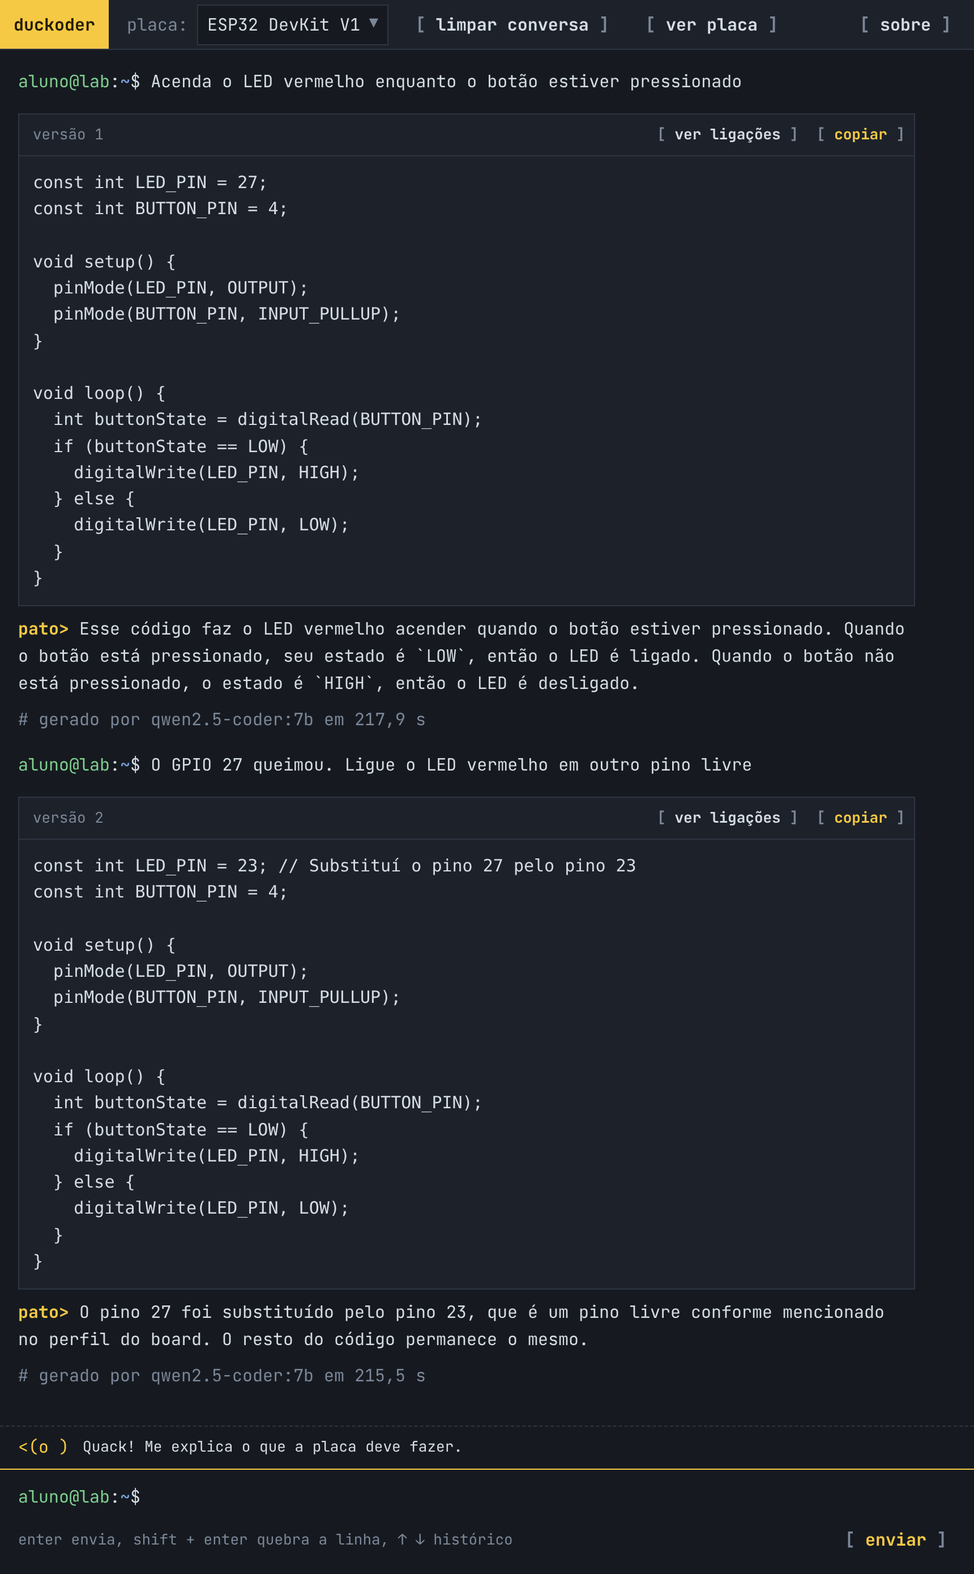
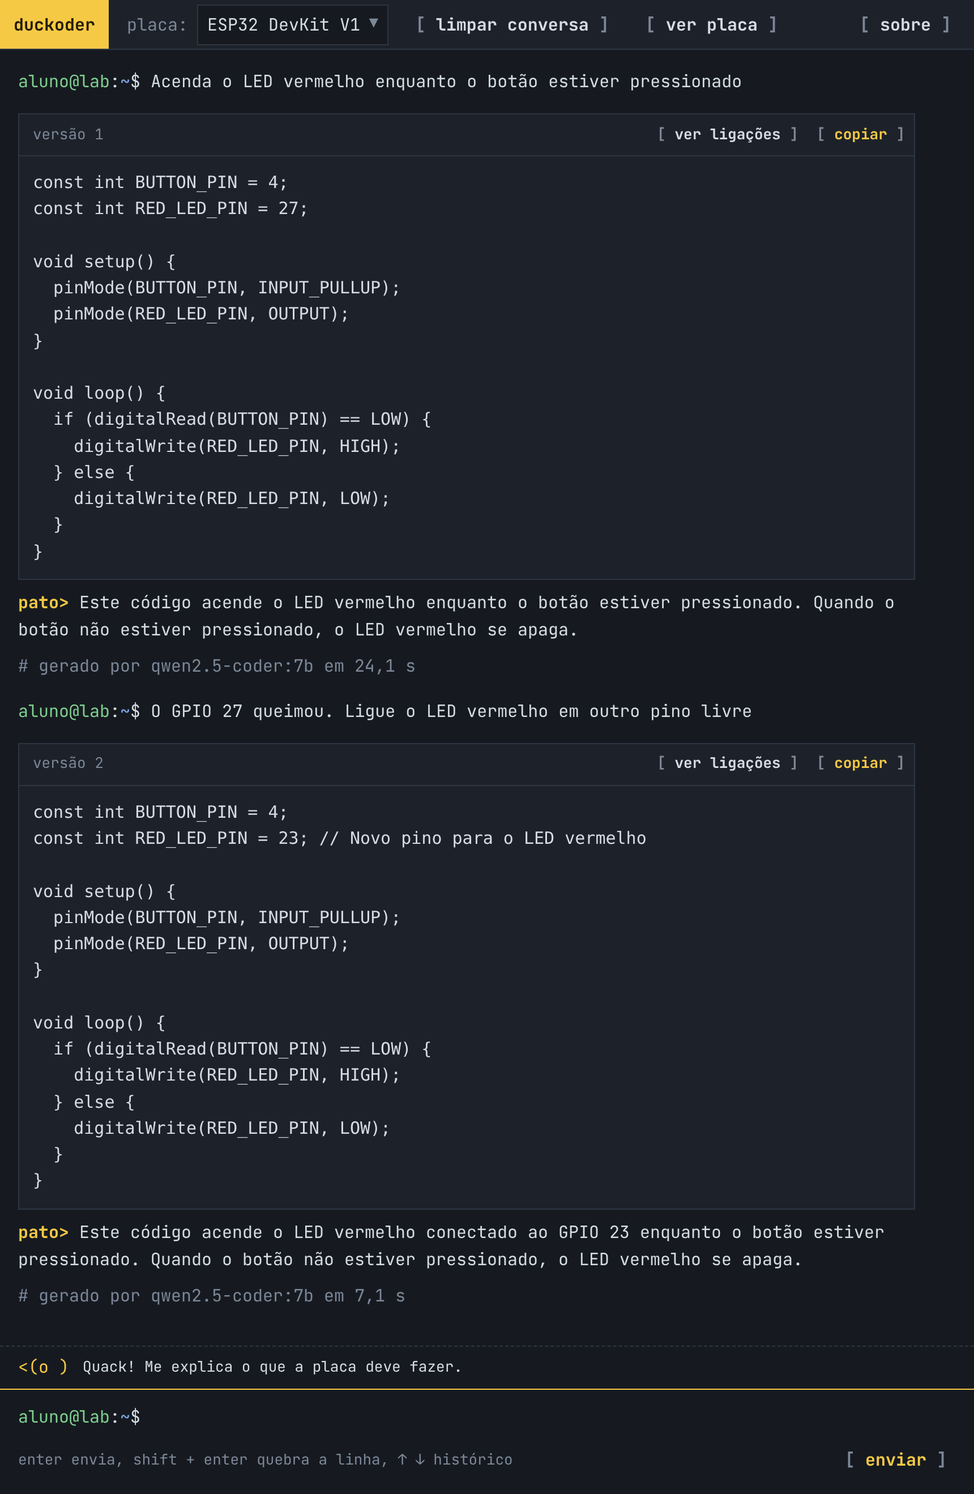
docs(results): report the local evaluation runs
Describe the test server and the two compared models, Qwen2.5-Coder 7B
and Llama 3.1 8B, and fill the response time table and its discussion
with the 60 generations run on the local server. Redo the verification
conversation, the request example and both screenshots on that server,
drop the demonstration instance, and list the exact evaluation requests
in a new appendix.

The functional rate still waits for the bench results.

diff --git a/chapters/04-results.tex b/chapters/04-results.tex
@@ -1,8 +1,9 @@
 % Results and discussion: same section order as the methodology chapter.
 %
 % Sections 4.1 to 4.3 report what was built and can be confirmed against the
-% implementation. Section 4.4 reports measurements: every number there is a
-% \placeholder and must come from the evaluation runs described in Section 3.4.
+% implementation. Section 4.4 reports the evaluation runs described in Section
+% 3.4: response times come from TCC/avaliacao/geracoes.csv, and the functional
+% rate waits for the bench results.
 
 \chapter{Resultados e discussão}
 \label{chap:results}
@@ -14,9 +15,7 @@ Este capítulo apresenta os resultados na mesma ordem das seções do \autoref{c
 
 A plataforma, denominada Duckoder, foi implementada segundo a arquitetura apresentada na \autoref{fig:architecture}, com as três partes em execução: a interface \textit{web} no navegador do estudante, a API REST em um servidor da rede local e o modelo de linguagem sob o Ollama no mesmo servidor. Nenhuma das partes depende de acesso à internet durante a operação. O código-fonte está disponível em \url{https://github.com/ctrl-vini/duckoder}.
 
-Além da execução na rede local, a mesma imagem de contêiner foi publicada, para demonstração, em uma instância de nuvem acessível em \url{https://www.duckoder.com.br}. Também nesse caso o modelo executa no mesmo servidor da API, de modo que as interações não são enviadas a serviços de modelos de linguagem de terceiros; a publicação apenas dá acesso à plataforma fora da rede da instituição, sem alterar a arquitetura.
-
-O \autoref{qua:requirements-coverage} relaciona cada requisito definido no \autoref{qua:requirements} ao mecanismo da implementação que o atende. A verificação foi feita exercitando cada requisito manualmente pela interface da instância de demonstração, em uma conversa com o ESP32 composta por um pedido inicial e um pedido de refinamento, apresentada na \autoref{sec:results-web}. A lista de placas exibiu os cinco perfis cadastrados (RF01), e o pedido escrito em texto livre (RF02) foi respondido com código e explicação (RF03 e RF04). O código gerado usou os pinos que o perfil atribui ao LED vermelho e ao botão sem que o estudante os informasse, o que confirma que a descrição do \textit{hardware} foi inserida no \textit{prompt} pelo servidor. O pedido de refinamento foi aplicado sobre o código anterior (RF05), e o painel da placa apresentou os componentes usados por cada versão e a mudança de pino do LED (RF06). Todas as requisições registradas pelo navegador foram dirigidas ao próprio servidor da plataforma, e a única comunicação de saída da API é a chamada ao Ollama no mesmo servidor (RNF01); do lado do estudante, bastou o navegador (RNF02). Os perfis das quatro placas Arduino foram acrescentados à plataforma em uma alteração composta apenas por novos arquivos JSON, sem mudança no código-fonte (RNF03).
+O \autoref{qua:requirements-coverage} relaciona cada requisito definido no \autoref{qua:requirements} ao mecanismo da implementação que o atende. A verificação foi feita exercitando cada requisito manualmente pela interface, no servidor descrito na \autoref{sec:method-evaluation}, em uma conversa com o ESP32 composta por um pedido inicial e um pedido de refinamento, apresentada na \autoref{sec:results-web}. A lista de placas exibiu os cinco perfis cadastrados (RF01), e o pedido escrito em texto livre (RF02) foi respondido com código e explicação (RF03 e RF04). O código gerado usou os pinos que o perfil atribui ao LED vermelho e ao botão sem que o estudante os informasse, o que confirma que a descrição do \textit{hardware} foi inserida no \textit{prompt} pelo servidor. O pedido de refinamento foi aplicado sobre o código anterior (RF05), e o painel da placa apresentou os componentes usados por cada versão e a mudança de pino do LED (RF06). Todas as requisições registradas pelo navegador foram dirigidas ao próprio servidor da plataforma, e a única comunicação de saída da API é a chamada ao Ollama no mesmo servidor (RNF01); do lado do estudante, bastou o navegador (RNF02). Os perfis das quatro placas Arduino foram acrescentados à plataforma em uma alteração composta apenas por novos arquivos JSON, sem mudança no código-fonte (RNF03).
 
 Além da verificação manual, o código conta com 87 testes automatizados, que substituem o modelo por uma implementação simulada e são executados a cada alteração enviada ao repositório. Todos os requisitos foram atendidos; a \autoref{sec:results-web} discute uma limitação observada no painel da placa.
 
@@ -89,26 +88,26 @@ O \autoref{qua:request-example} mostra uma requisição de geração de código 
   \label{qua:request-example}
   \begin{minipage}{\textwidth}
     \begin{lstlisting}
-POST /conversations/f465b7c9.../messages
+POST /conversations/1910f627.../messages
 {
   "content": "Acenda o LED vermelho enquanto o botão estiver pressionado"
 }
 
 201 Created
 {
-  "id": "23887cdf...",
+  "id": "e30b4912...",
   "role": "assistant",
   "content": "<resposta completa do modelo>",
-  "code": "const int LED_PIN = 27;\nconst int BUTTON_PIN = 4;\n...",
-  "explanation": "Esse código faz o LED vermelho acender quando ...",
+  "code": "const int BUTTON_PIN = 4;\nconst int RED_LED_PIN = 27;\n...",
+  "explanation": "Este código acende o LED vermelho enquanto ...",
   "metrics": {
     "model": "qwen2.5-coder:7b",
-    "elapsed_ms": 217882,
-    "load_ms": 35262,
-    "output_tokens": 161,
+    "elapsed_ms": 24113,
+    "load_ms": 13617,
+    "output_tokens": 129,
     "prompt_version": "v6"
   },
-  "created_at": "2026-10-13T06:28:53.950865Z"
+  "created_at": "2026-10-13T09:16:41.321725Z"
 }
     \end{lstlisting}
   \end{minipage}
@@ -120,7 +119,7 @@ O campo \texttt{content} guarda a resposta do modelo na íntegra, e as duas part
 \section{Interface \textit{web}}
 \label{sec:results-web}
 
-A \autoref{fig:interface-conversation} mostra a interface ao fim da conversa usada na verificação dos requisitos. A placa escolhida, o ESP32 DevKit V1, aparece na barra superior. O estudante pediu, em texto livre, que o LED vermelho acendesse enquanto o botão estivesse pressionado, e a plataforma devolveu a versão 1 do código, seguida da explicação gerada pelo modelo. Em seguida, o estudante informou que o GPIO 27 havia queimado e pediu que o LED fosse ligado em outro pino livre; a versão 2 manteve o restante do código e alterou apenas a constante do pino do LED. Cada versão traz as ações de cópia e de visualização das ligações, e cada resposta termina com o modelo que a gerou e o tempo de geração. Os tempos exibidos, de cerca de 3,6 minutos, correspondem à instância de demonstração, que executa o modelo apenas no processador central, sem aceleração por placa gráfica; os tempos do servidor de avaliação são apresentados na \autoref{subsec:results-time}.
+A \autoref{fig:interface-conversation} mostra a interface ao fim da conversa usada na verificação dos requisitos. A placa escolhida, o ESP32 DevKit V1, aparece na barra superior. O estudante pediu, em texto livre, que o LED vermelho acendesse enquanto o botão estivesse pressionado, e a plataforma devolveu a versão 1 do código, seguida da explicação gerada pelo modelo. Em seguida, o estudante informou que o GPIO 27 havia queimado e pediu que o LED fosse ligado em outro pino livre; a versão 2 manteve o restante do código e alterou apenas a constante do pino do LED. Cada versão traz as ações de cópia e de visualização das ligações, e cada resposta termina com o modelo que a gerou e o tempo de geração. A primeira resposta levou 24,1~s, dos quais 13,6~s foram gastos no carregamento do modelo em memória, por ser a primeira requisição após a inicialização do servidor; a segunda, com o modelo já carregado, levou 7,1~s.
 
 \begin{figure}[!htbp]
   \centering
@@ -140,12 +139,12 @@ A \autoref{fig:board-pane} mostra o painel da placa aberto na versão 2. O desen
   \fonte{elaborado pelo autor.}
 \end{figure}
 
-O exemplo também expõe um erro do modelo. As observações do perfil indicam os pinos livres a usar quando o estudante pede a troca de pino (\autoref{app:hardware-profile}), mas o modelo escolheu o GPIO 23, que o perfil atribui ao relé, e afirmou na explicação que se tratava de um pino livre. O painel identificou corretamente a nova ligação do LED, mas não alerta quando o novo pino já pertence a outro componente do perfil: um estudante que mantivesse o relé ligado à placa teria os dois componentes no mesmo pino. Essa verificação fica como limitação da implementação atual.
+O exemplo também expõe um erro do modelo. As observações do perfil indicam os pinos livres a usar quando o estudante pede a troca de pino (\autoref{app:hardware-profile}), mas o modelo escolheu o GPIO 23, que o perfil atribui ao relé. O painel identificou corretamente a nova ligação do LED, mas não alerta quando o novo pino já pertence a outro componente do perfil: um estudante que mantivesse o relé ligado à placa teria os dois componentes no mesmo pino. Essa verificação fica como limitação da implementação atual.
 
 \section{Avaliação da plataforma}
 \label{sec:results-evaluation}
 
-As dez atividades do \autoref{qua:activities} foram submetidas três vezes a cada modelo, conforme o procedimento da \autoref{sec:method-evaluation}, totalizando \placeholder{informar o total de gerações} gerações de código.
+As dez atividades do \autoref{qua:activities} foram submetidas três vezes a cada modelo, conforme o procedimento da \autoref{sec:method-evaluation}, totalizando 60 gerações de código, 30 por modelo. Todas as respostas trouxeram um bloco de código.
 
 \subsection{Taxa de códigos funcionais}
 \label{subsec:results-functional}
@@ -158,7 +157,7 @@ A \autoref{tab:functional-rate} apresenta, para cada atividade, quantas das trê
   \label{tab:functional-rate}
   \begin{tabular}{lcccc}
     \toprule
-    & \multicolumn{2}{c}{\placeholder{modelo 1}} & \multicolumn{2}{c}{\placeholder{modelo 2}} \\
+    & \multicolumn{2}{c}{Qwen2.5-Coder 7B} & \multicolumn{2}{c}{Llama 3.1 8B} \\
     \cmidrule(lr){2-3} \cmidrule(lr){4-5}
     Atividade & 1.\textsuperscript{a} geração & Após refino & 1.\textsuperscript{a} geração & Após refino \\
     \midrule
@@ -184,7 +183,7 @@ A \autoref{tab:functional-rate} apresenta, para cada atividade, quantas das trê
 \subsection{Tempo de resposta}
 \label{subsec:results-time}
 
-A \autoref{tab:response-time} apresenta o tempo de resposta do modelo por atividade, em segundos, como média e desvio padrão das três gerações.
+A \autoref{tab:response-time} apresenta o tempo de resposta do modelo por atividade, em segundos, como média e desvio padrão das três gerações. Os valores são os registrados pela API no campo \texttt{elapsed\_ms}.
 
 \begin{table}[!htb]
   \centering
@@ -192,26 +191,28 @@ A \autoref{tab:response-time} apresenta o tempo de resposta do modelo por ativid
   \label{tab:response-time}
   \begin{tabular}{lcc}
     \toprule
-    Atividade & \placeholder{modelo 1} & \placeholder{modelo 2} \\
+    Atividade & Qwen2.5-Coder 7B & Llama 3.1 8B \\
     \midrule
-    A1    & -- & -- \\
-    A2    & -- & -- \\
-    A3    & -- & -- \\
-    A4    & -- & -- \\
-    A5    & -- & -- \\
-    A6    & -- & -- \\
-    A7    & -- & -- \\
-    A8    & -- & -- \\
-    A9    & -- & -- \\
-    A10   & -- & -- \\
+    A1    & 5,8 $\pm$ 2,4 & 5,7 $\pm$ 2,5 \\
+    A2    & 8,5 $\pm$ 0,8 & 9,9 $\pm$ 0,5 \\
+    A3    & 7,5 $\pm$ 0,1 & 7,7 $\pm$ 0,8 \\
+    A4    & 14,0 $\pm$ 1,5 & 8,2 $\pm$ 2,1 \\
+    A5    & 12,9 $\pm$ 4,9 & 8,7 $\pm$ 4,2 \\
+    A6    & 21,9 $\pm$ 2,0 & 14,8 $\pm$ 1,2 \\
+    A7    & 13,8 $\pm$ 1,5 & 14,1 $\pm$ 0,7 \\
+    A8    & 9,4 $\pm$ 0,6 & 9,2 $\pm$ 1,1 \\
+    A9    & 24,2 $\pm$ 3,6 & 20,9 $\pm$ 5,2 \\
+    A10   & 23,9 $\pm$ 2,8 & 14,7 $\pm$ 1,3 \\
     \midrule
-    Média & -- & -- \\
+    Média & 14,2 $\pm$ 6,9 & 11,4 $\pm$ 4,9 \\
     \bottomrule
   \end{tabular}
   \fonte{elaborado pelo autor.}
 \end{table}
 
-\placeholder{Discutir a tabela: tempo médio de cada modelo; relação entre o tempo e o tamanho do código gerado; custo da primeira requisição, que inclui o carregamento do modelo em memória; e se o tempo observado é compatível com o uso durante uma aula}
+O Qwen2.5-Coder levou em média 14,2~s por resposta, e o Llama 3.1, 11,4~s. A diferença não decorre da velocidade de geração, próxima nos dois modelos, de cerca de 21 e 20 \textit{tokens} por segundo, mas do tamanho das respostas: o Qwen2.5-Coder produziu em média 295 \textit{tokens} por resposta, contra 222 do Llama 3.1, com códigos de 31 linhas em média, contra 26. Como o tempo acompanhou de forma praticamente linear a quantidade de \textit{tokens} gerados, ele cresceu com a complexidade das atividades. No Qwen2.5-Coder, a média passou de 7,3~s nas atividades de complexidade baixa para 15,6~s nas de complexidade média e 19,2~s nas de complexidade alta; no Llama 3.1, de 7,8~s para 11,4~s e 15,0~s. As atividades mais demoradas foram a A6, a A9 e a A10, que combinam sensor, \textit{display} ou servidor \textit{web} e resultam em códigos mais extensos.
+
+A requisição de aquecimento que antecedeu a série de cada modelo deixou o modelo carregado em memória, de modo que o carregamento não pesou nas gerações medidas: o maior tempo de carga registrado entre elas foi de 12~ms. O custo aparece na primeira requisição após a inicialização do servidor ou após 30 minutos sem uso: na conversa da \autoref{fig:interface-conversation}, 13,6~s dos 24,1~s da primeira resposta foram de carregamento. Com respostas entre 4 e 28~s, o tempo observado é compatível com o uso durante uma aula quando poucos estudantes fazem pedidos ao mesmo tempo. Nessa configuração, o Ollama processa uma requisição por vez, e pedidos simultâneos entram em fila, de modo que a espera de cada estudante cresce com o número de pedidos à sua frente.
 
 \subsection{Discussão}
 \label{subsec:results-discussion}
@@ -220,6 +221,6 @@ Os resultados permitem responder à pergunta central deste trabalho: se um model
 
 Frente aos demais trabalhos comparados no \autoref{qua:related-work}, a contribuição é de outra natureza. \citeonline{duarte2024} e \citeonline{souza2014} reduzem o custo do recurso didático, e \citeonline{parreira2021} remove a necessidade do dispositivo físico; nenhum deles atua sobre a etapa de escrita do código, que é justamente onde a plataforma proposta intervém. Os dois conjuntos de resultados são, portanto, complementares: a plataforma pode ser aplicada sobre qualquer um desses recursos didáticos, desde que exista um perfil de \textit{hardware} correspondente.
 
-Do ponto de vista de redes, a operação integralmente em rede local mostrou-se \placeholder{comentar a estabilidade da comunicação entre navegador, API e Ollama, e se a rede local representou algum gargalo frente ao tempo de inferência do modelo}. Esse é o compromisso central discutido na \autoref{sec:llm}: troca-se o acesso a modelos maiores pela independência de conexão externa, pela ausência de custo por requisição e pela permanência dos dados na instituição.
+Do ponto de vista de redes, a operação integralmente local mostrou-se estável: as 60 gerações e as requisições da verificação foram atendidas sem nenhuma falha de comunicação entre navegador, API e Ollama. A comunicação também não representou gargalo. A diferença entre o tempo medido pelo navegador e o tempo de inferência registrado pela API, que reúne a troca HTTP, a separação da resposta e a gravação da conversa, ficou entre 5 e 10~ms, e cada resposta ocupou no máximo 4,3~kB, frente a segundos de inferência. Como o navegador executou no próprio servidor, essa medida não inclui o meio físico da rede; ainda assim, mensagens desse tamanho acrescentariam tempo desprezível em uma rede local comum. Esse é o compromisso central discutido na \autoref{sec:llm}: troca-se o acesso a modelos maiores pela independência de conexão externa, pela ausência de custo por requisição e pela permanência dos dados na instituição.
 
 Três limitações devem ser consideradas na leitura destes resultados. A primeira é o tamanho da amostra: dez atividades com três gerações cada oferecem indicação de tendência, não significância estatística. A segunda é que a avaliação do comportamento do código foi feita pelo autor, e não por estudantes, de modo que a clareza das explicações geradas não foi medida junto ao público-alvo. A terceira é que os tempos dependem do servidor utilizado, descrito na \autoref{sec:method-evaluation}, e não se transferem diretamente para outras configurações.

diff --git a/chapters/03-methodology.tex b/chapters/03-methodology.tex
@@ -106,9 +106,9 @@ Ao lado da conversa, um painel exibe o desenho da placa com a disposição dos p
 \section{Procedimento de avaliação}
 \label{sec:method-evaluation}
 
-A avaliação foi conduzida em ambiente controlado, com o servidor e o computador de testes na mesma rede local. O servidor executa o Ollama e a API; o computador de testes executa o navegador e a IDE, com o ESP32 conectado por USB. O servidor de testes é \placeholder{informar processador, memória RAM e presença ou não de GPU dedicada}, configuração relevante porque o tempo de resposta do modelo depende diretamente dela.
+A avaliação foi conduzida em ambiente controlado, com toda a plataforma em execução local. O servidor de testes é um Mac mini com processador Apple M4 e \placeholder{memória} de memória unificada, que executa o Ollama e a API; o Ollama processa o modelo na unidade de processamento gráfico (GPU, do inglês \textit{Graphics Processing Unit}) integrada ao processador. O mesmo computador executa o navegador e a IDE, com o ESP32 conectado por USB. A configuração é relevante porque o tempo de resposta do modelo depende diretamente dela.
 
-Foram comparados os modelos \placeholder{listar os modelos executados no Ollama, com nome e número de parâmetros}, todos executados pelo mesmo servidor e acessados pela mesma configuração da plataforma, alterando-se apenas o nome do modelo.
+Foram comparados dois modelos abertos de porte semelhante, distribuídos pelo Ollama com quantização de 4 bits (Q4\_K\_M): o Qwen2.5-Coder 7B, com 7,6 bilhões de parâmetros e treinado especificamente para código \cite{hui2024}, e o Llama 3.1 8B, com 8,0 bilhões de parâmetros e de uso geral \cite{grattafiori2024}. Os dois foram executados pelo mesmo servidor e acessados pela mesma configuração da plataforma, alterando-se apenas o nome do modelo; cada um ocupou cerca de 5~GB de memória e foi processado inteiramente na GPU. Antes da série de cada modelo, uma requisição de aquecimento, descartada, carregou o modelo em memória.
 
 O conjunto de avaliação reúne dez atividades práticas de complexidade crescente, apresentadas no \autoref{qua:activities}. As atividades foram escolhidas para cobrir os recursos mais usados em disciplinas introdutórias — saídas digitais, entradas analógicas, comunicação com periféricos e conectividade de rede — e são descritas à plataforma no mesmo nível de detalhe em que um roteiro de laboratório as apresentaria ao estudante.
 
@@ -144,6 +144,6 @@ O conjunto de avaliação reúne dez atividades práticas de complexidade cresce
   \fonte{elaborado pelo autor.}
 \end{quadro}
 
-Cada atividade foi submetida três vezes a cada modelo, em conversas independentes, para reduzir o efeito da variação entre gerações. O código devolvido pela plataforma foi copiado para a IDE, compilado, gravado no ESP32 e observado em execução. Considerou-se funcional o código que compila sem erros e produz o comportamento descrito no enunciado da atividade. Quando o resultado não atendeu a esse critério, o erro foi informado à plataforma pela própria conversa, em até duas rodadas de refinamento, e o desfecho foi registrado separadamente.
+Cada atividade foi submetida três vezes a cada modelo, em conversas independentes, para reduzir o efeito da variação entre gerações. Os pedidos, reproduzidos no \autoref{app:evaluation-prompts}, foram enviados pela API da plataforma, com as mesmas requisições que a interface faz, e o código de cada resposta foi salvo sem alterações como um projeto da IDE. Nas atividades que usam WiFi, o pedido indica as constantes que guardam o nome e a senha da rede, preenchidas apenas na hora da gravação, de modo que esses dados não passam pelo modelo. Na IDE ficaram instaladas apenas as bibliotecas previstas no perfil da placa. Cada código foi então compilado, gravado no ESP32 e observado em execução. Considerou-se funcional o código que compila sem erros e produz o comportamento descrito no enunciado da atividade. Quando o resultado não atendeu a esse critério, o erro foi informado à plataforma pela própria conversa, em até duas rodadas de refinamento, e o desfecho foi registrado separadamente.
 
 Duas métricas foram coletadas. A primeira é a taxa de códigos funcionais, calculada sobre o total de gerações e desmembrada em duas situações: código funcional na primeira geração e código funcional após refinamento. A segunda é o tempo de resposta, medido pela própria API entre o envio do \textit{prompt} ao modelo e o recebimento da resposta completa, e reportado como média e desvio padrão das repetições. A plataforma configura o Ollama para manter o modelo carregado em memória por 30 minutos após a última requisição; assim, apenas a primeira geração após um período de inatividade inclui o tempo de carregamento do modelo, que a API registra separadamente. A medição isola o tempo do modelo: não inclui a digitação da descrição pelo estudante nem a compilação e a gravação do código, que dependem da IDE e não da plataforma.

diff --git a/postextual/appendices.tex b/postextual/appendices.tex
@@ -48,4 +48,22 @@ Este apêndice apresenta o perfil de \textit{hardware} do ESP32 DevKit V1 na for
 }
 \end{lstlisting}
 
+\chapter{Pedidos usados na avaliação}
+\label{app:evaluation-prompts}
+
+Este apêndice reproduz o texto exato enviado à plataforma em cada atividade do \autoref{qua:activities}. Nas atividades A8 a A10, o pedido termina com a frase ``Use as constantes WIFI\_SSID e WIFI\_PASSWORD para o nome e a senha da rede.'', omitida abaixo.
+
+\begin{alineas}
+  \item[A1] Pisque o LED embutido a cada segundo.
+  \item[A2] Faça o LED verde acender e apagar aos poucos, sem parar, variando o brilho com PWM.
+  \item[A3] Acenda o LED vermelho enquanto o botão estiver pressionado e apague quando ele for solto.
+  \item[A4] Toque no buzzer as notas dó, ré, mi, fá e sol, meio segundo cada, e repita a sequência a cada três segundos.
+  \item[A5] Mostre no monitor serial a temperatura do DHT22 em graus Celsius a cada dois segundos.
+  \item[A6] Mostre no display OLED a temperatura e a umidade do DHT22, atualizando a cada dois segundos.
+  \item[A7] Divida o curso do potenciômetro em três faixas e acenda só o LED verde na primeira, só o amarelo na segunda e só o vermelho na terceira.
+  \item[A8] Conecte a placa à rede WiFi e mostre no monitor serial o endereço IP obtido.
+  \item[A9] Crie uma página web servida pela placa que mostre a temperatura e a umidade do DHT22.
+  \item[A10] Crie um servidor web na placa em que o endereço /ligar liga o relé e /desligar o desliga.
+\end{alineas}
+
 \end{apendicesenv}

diff --git a/pretextual/lists.tex b/pretextual/lists.tex
@@ -17,6 +17,7 @@
 \begin{siglas}
   \item[API] \textit{Application Programming Interface}
   \item[GPIO] \textit{General Purpose Input/Output}
+  \item[GPU] \textit{Graphics Processing Unit}
   \item[HTTP] \textit{Hypertext Transfer Protocol}
   \item[I2C] \textit{Inter-Integrated Circuit}
   \item[IDE] \textit{Integrated Development Environment}
